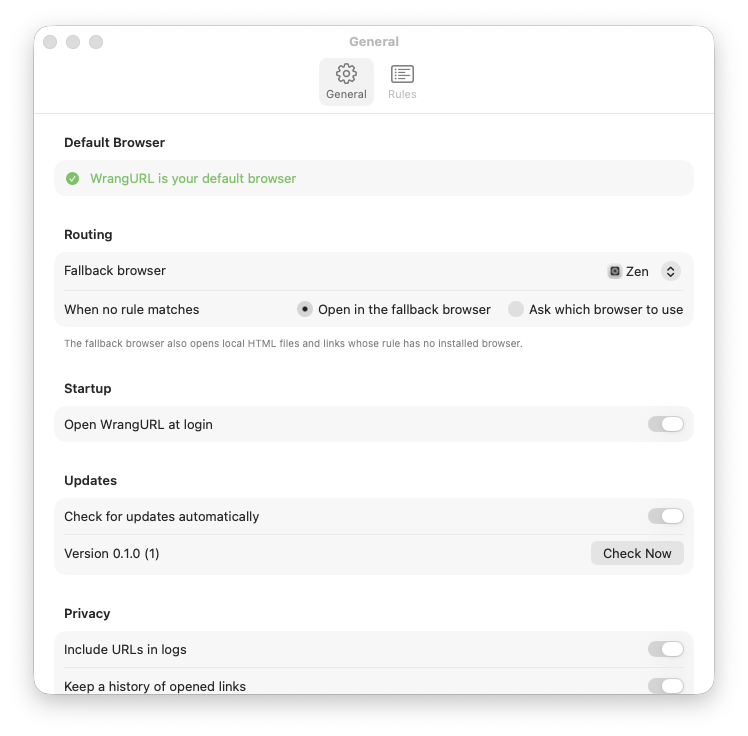
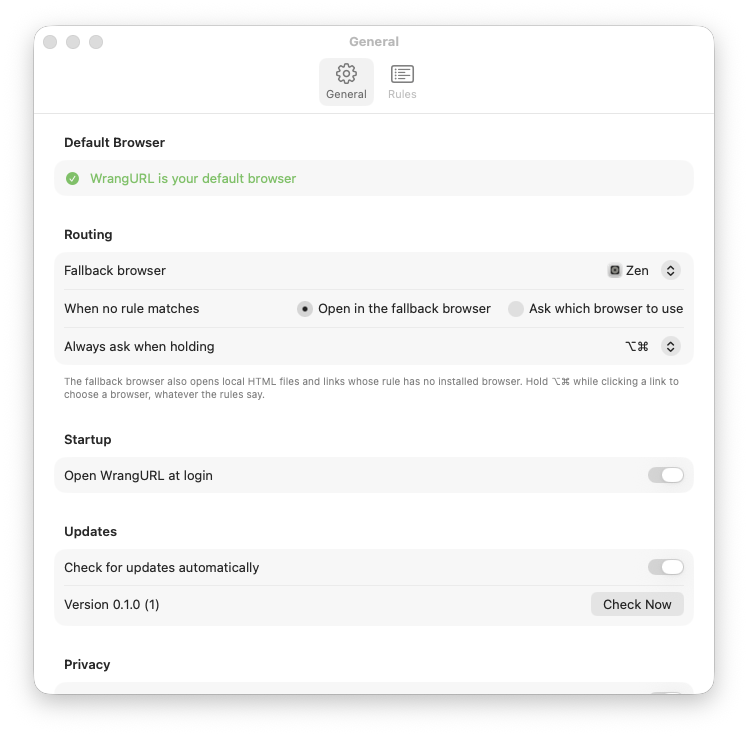
Hold ⌥⌘ while clicking a link to always show the browser picker.
URLRouter reads the held modifier keys when a URL arrives, before it
can be queued. If they match the new pickerModifiers setting exactly,
RoutePlanner shows the picker with every browser, listing the matched
rule's browsers (or the fallback browser) first. The keys default to
⌥⌘ and can be changed or turned off in Settings → General. They are
stored in config.json as key names, and older config files load with
the default.

Documents the shortcut in the README and on the website, and
recaptures the Settings → General screenshots with the new row.

diff --git a/WrangURL/Core/URLRouter.swift b/WrangURL/Core/URLRouter.swift
@@ -14,13 +14,20 @@ final class URLRouter {
         let ruleName: String?
     }
 
+    /// A URL that arrived before launch finished, with what was known when it arrived.
+    private struct PendingURL {
+        let url: URL
+        let source: SourceApp?
+        let modifiers: ModifierKeys
+    }
+
     private(set) var recent: [Entry] = []
 
     @ObservationIgnored private let config: ConfigStore
     @ObservationIgnored private let browsers: BrowserRegistry
     @ObservationIgnored private let history: HistoryStore
     @ObservationIgnored private let picker = BrowserPickerController()
-    @ObservationIgnored private var pending: [(url: URL, source: SourceApp?)] = []
+    @ObservationIgnored private var pending: [PendingURL] = []
     @ObservationIgnored private var isReady = false
     @ObservationIgnored private var matcherCache: (rules: [Rule], matcher: RuleMatcher)?
 
@@ -37,20 +44,22 @@ final class URLRouter {
         isReady = true
         let queued = pending
         pending.removeAll()
-        for (url, source) in queued {
-            route(url, from: source)
+        for item in queued {
+            route(item.url, from: item.source, heldModifiers: item.modifiers)
         }
     }
 
     /// Routes URLs clicked in `source`, the app they came from, if known.
     func handle(_ urls: [URL], from source: SourceApp? = nil) {
+        // Read the keys now: by the time a queued URL is routed, the user may have let go.
+        let modifiers = ModifierKeys(NSEvent.modifierFlags)
         guard isReady else {
-            pending.append(contentsOf: urls.map { ($0, source) })
+            pending.append(contentsOf: urls.map { PendingURL(url: $0, source: source, modifiers: modifiers) })
             Self.logger.info("Queued \(urls.count) URL(s) until launch finishes")
             return
         }
         for url in urls {
-            route(url, from: source)
+            route(url, from: source, heldModifiers: modifiers)
         }
     }
 
@@ -76,9 +85,11 @@ final class URLRouter {
     }
 
     /// What would happen to a URL clicked in `source`, without opening it. Used by the URL tester.
-    func preview(_ url: URL, from source: SourceApp? = nil) -> (rule: Rule?, decision: RouteDecision) {
+    func preview(
+        _ url: URL, from source: SourceApp? = nil, heldModifiers: ModifierKeys = []
+    ) -> (rule: Rule?, decision: RouteDecision) {
         let rule = matcher.match(url, from: source?.id)
-        return (rule, planner.decide(for: url, matchedRule: rule))
+        return (rule, planner.decide(for: url, matchedRule: rule, heldModifiers: heldModifiers))
     }
 
     /// The URL as it should appear in the log, following the "Include URLs in logs" setting.
@@ -86,9 +97,9 @@ final class URLRouter {
         config.config.settings.logsURLs ? url.absoluteString : "<URL hidden>"
     }
 
-    private func route(_ url: URL, from source: SourceApp?) {
-        let (rule, decision) = preview(url, from: source)
-        Self.logger.info("Received \(self.loggable(url), privacy: .public) from \(source?.id ?? "unknown app", privacy: .public); rule: \(rule?.displayName ?? "none", privacy: .public); decision: \(String(describing: decision), privacy: .public)")
+    private func route(_ url: URL, from source: SourceApp?, heldModifiers: ModifierKeys) {
+        let (rule, decision) = preview(url, from: source, heldModifiers: heldModifiers)
+        Self.logger.info("Received \(self.loggable(url), privacy: .public) from \(source?.id ?? "unknown app", privacy: .public); rule: \(rule?.displayName ?? "none", privacy: .public); modifiers: \(heldModifiers.symbols, privacy: .public); decision: \(String(describing: decision), privacy: .public)")
 
         switch decision {
         case .open(let browserID):
@@ -148,5 +159,15 @@ final class URLRouter {
                 ruleName: rule?.displayName, sourceApp: source
             ))
         }
+    }
+}
+
+private extension ModifierKeys {
+    init(_ flags: NSEvent.ModifierFlags) {
+        self = []
+        if flags.contains(.control) { insert(.control) }
+        if flags.contains(.option) { insert(.option) }
+        if flags.contains(.shift) { insert(.shift) }
+        if flags.contains(.command) { insert(.command) }
     }
 }

diff --git a/WrangURLTests/RoutePlannerTests.swift b/WrangURLTests/RoutePlannerTests.swift
@@ -74,4 +74,57 @@ struct RoutePlannerTests {
         let file = URL(filePath: "/tmp/page.html")
         #expect(planner(unmatched: .showPicker).decide(for: file, matchedRule: rule([firefox])) == .open(browserID: chrome))
     }
+
+    // MARK: Picker modifiers (default ⌥⌘)
+
+    private let forced: ModifierKeys = [.option, .command]
+
+    @Test func modifiersShowPickerWithRuleBrowsersFirst() {
+        let decision = planner().decide(for: web, matchedRule: rule([safari, missing]), heldModifiers: forced)
+        #expect(decision == .pick(browserIDs: [safari, chrome, firefox]))
+    }
+
+    @Test func modifiersShowPickerWithFallbackFirstWhenUnmatched() {
+        let decision = planner(fallback: firefox).decide(for: web, matchedRule: nil, heldModifiers: forced)
+        #expect(decision == .pick(browserIDs: [firefox, chrome, safari]))
+    }
+
+    @Test func modifiersShowPickerForFileURLs() {
+        let file = URL(filePath: "/tmp/page.html")
+        let decision = planner().decide(for: file, matchedRule: rule([firefox]), heldModifiers: forced)
+        #expect(decision == .pick(browserIDs: [chrome, firefox, safari]))
+    }
+
+    @Test func modifiersMustMatchExactly() {
+        let single = rule([firefox])
+        #expect(planner().decide(for: web, matchedRule: single, heldModifiers: [.option]) == .open(browserID: firefox))
+        #expect(planner().decide(for: web, matchedRule: single, heldModifiers: [.option, .command, .shift]) == .open(browserID: firefox))
+    }
+
+    @Test func emptyPickerModifiersTurnTheShortcutOff() {
+        var planner = planner()
+        planner.settings.pickerModifiers = []
+        #expect(planner.decide(for: web, matchedRule: rule([firefox]), heldModifiers: []) == .open(browserID: firefox))
+    }
+
+    @Test func modifiersWithOneBrowserOpenIt() {
+        let decision = planner(fallback: nil, installed: [safari]).decide(for: web, matchedRule: nil, heldModifiers: forced)
+        #expect(decision == .open(browserID: safari))
+    }
+
+    @Test func pickerModifiersRoundTripAsKeyNames() throws {
+        var settings = AppSettings()
+        settings.pickerModifiers = [.command, .shift]
+        let data = try JSONEncoder().encode(settings)
+        let json = try #require(JSONSerialization.jsonObject(with: data) as? [String: Any])
+        #expect(json["pickerModifiers"] as? [String] == ["shift", "command"])
+        #expect(try JSONDecoder().decode(AppSettings.self, from: data).pickerModifiers == [.shift, .command])
+    }
+
+    @Test func pickerModifiersDefaultToOptionCommandAndIgnoreUnknownKeys() throws {
+        let missing = try JSONDecoder().decode(AppSettings.self, from: Data("{}".utf8))
+        #expect(missing.pickerModifiers == [.option, .command])
+        let unknown = try JSONDecoder().decode(AppSettings.self, from: Data(#"{"pickerModifiers": ["option", "hyper"]}"#.utf8))
+        #expect(unknown.pickerModifiers == [.option])
+    }
 }

diff --git a/WrangURL/UI/Settings/GeneralSettingsView.swift b/WrangURL/UI/Settings/GeneralSettingsView.swift
@@ -53,10 +53,16 @@ struct GeneralSettingsView: View {
                     Text("Ask which browser to use").tag(UnmatchedBehavior.showPicker)
                 }
                 .pickerStyle(.radioGroup)
+
+                Picker("Always ask when holding", selection: pickerModifiers) {
+                    ForEach(pickerModifierChoices, id: \.rawValue) { keys in
+                        Text(keys.isEmpty ? "Off" : keys.symbols).tag(keys)
+                    }
+                }
             } header: {
                 Text("Routing")
             } footer: {
-                Text("The fallback browser also opens local HTML files and links whose rule has no installed browser.")
+                Text(routingFooter)
                     .font(.caption)
                     .foregroundStyle(.secondary)
             }
@@ -131,6 +137,32 @@ struct GeneralSettingsView: View {
         var planner = router.planner
         planner.settings.fallbackBrowserID = nil
         return planner.fallbackBrowserID.map(browsers.name(forID:)) ?? "none"
+    }
+
+    private var routingFooter: String {
+        var text = "The fallback browser also opens local HTML files and links whose rule has no installed browser."
+        let keys = config.config.settings.pickerModifiers
+        if !keys.isEmpty {
+            text += " Hold \(keys.symbols) while clicking a link to choose a browser, whatever the rules say."
+        }
+        return text
+    }
+
+    /// The offered combinations, plus the current one if it was set by editing the config file.
+    private var pickerModifierChoices: [ModifierKeys] {
+        var choices: [ModifierKeys] = [AppSettings.defaultPickerModifiers, [.control, .option], [.shift, .command], [.option], [.shift], []]
+        let current = config.config.settings.pickerModifiers
+        if !choices.contains(current) {
+            choices.insert(current, at: choices.count - 1)
+        }
+        return choices
+    }
+
+    private var pickerModifiers: Binding<ModifierKeys> {
+        Binding(
+            get: { config.config.settings.pickerModifiers },
+            set: { keys in config.update { $0.settings.pickerModifiers = keys } }
+        )
     }
 
     private var fallbackBrowserID: Binding<String?> {

diff --git a/WrangURL/Core/RoutePlanner.swift b/WrangURL/Core/RoutePlanner.swift
@@ -24,15 +24,23 @@ struct RoutePlanner {
             ?? installedBrowserIDs.first(where: isAvailable)
     }
 
-    func decide(for url: URL, matchedRule: Rule?) -> RouteDecision {
+    /// - Parameter heldModifiers: The modifier keys held when the URL arrived. If they are
+    ///   exactly `settings.pickerModifiers`, the picker offers every browser.
+    func decide(for url: URL, matchedRule: Rule?, heldModifiers: ModifierKeys = []) -> RouteDecision {
         // Local HTML files arrive via the document type; rules only apply to web URLs.
+        let ruleBrowserIDs = url.isFileURL ? nil : matchedRule.map { availableBrowserIDs($0.browserIDs) }
+
+        if !settings.pickerModifiers.isEmpty && heldModifiers == settings.pickerModifiers {
+            // The rule's browsers first, or else the fallback, then every other browser.
+            let preferred = ruleBrowserIDs.flatMap { $0.isEmpty ? nil : $0 } ?? [fallbackBrowserID].compactMap { $0 }
+            return openOrPick(availableBrowserIDs(preferred + installedBrowserIDs))
+        }
+
         if url.isFileURL {
             return openFallback()
         }
 
-        if let rule = matchedRule {
-            var seen = Set<String>()
-            let browserIDs = rule.browserIDs.filter { isAvailable($0) && seen.insert($0).inserted }
+        if let browserIDs = ruleBrowserIDs {
             return browserIDs.isEmpty ? openFallback() : openOrPick(browserIDs)
         }
 
@@ -47,6 +55,12 @@ struct RoutePlanner {
             }
             return openOrPick(browserIDs)
         }
+    }
+
+    /// The available browsers among `browserIDs`, without duplicates, in their original order.
+    private func availableBrowserIDs(_ browserIDs: [String]) -> [String] {
+        var seen = Set<String>()
+        return browserIDs.filter { isAvailable($0) && seen.insert($0).inserted }
     }
 
     private func openOrPick(_ browserIDs: [String]) -> RouteDecision {

diff --git a/docs/index.html b/docs/index.html
@@ -312,6 +312,10 @@
           When a rule lists more than one browser, the picker appears next to the mouse pointer.
           The app you clicked the link in stays in front, so you can keep working after you choose.
         </p>
+        <p>
+          To choose for any link, hold <kbd>⌥</kbd><kbd>⌘</kbd> while you click it. The picker then lists every browser,
+          with the rule’s browsers or the fallback browser first. Change the keys or turn this off in Settings → General.
+        </p>
         <table class="keys">
           <tbody>
             <tr><td><kbd>1</kbd>–<kbd>9</kbd></td><td>Open in that browser</td></tr>
@@ -362,13 +366,13 @@
       <picture>
         <source srcset="images/settings-general-dark.png" media="(prefers-color-scheme: dark)">
         <img src="images/settings-general-light.png" width="748" height="736" loading="lazy"
-             alt="The General tab: default browser status, fallback browser, unmatched links, startup, updates, and privacy options for logging URLs and keeping a history.">
+             alt="The General tab: default browser status, fallback browser, unmatched links, the keys that always show the picker (Option-Command), startup and updates.">
       </picture>
       <figcaption>Settings → General.</figcaption>
     </figure>
 
     <p>
-      <b>Settings → General</b> covers the fallback browser and what happens when no rule matches, plus launch at login, automatic updates, whether URLs are logged, whether to keep a history, and your configuration.
+      <b>Settings → General</b> covers the fallback browser, what happens when no rule matches and the keys that always show the picker, plus launch at login, automatic updates, whether URLs are logged, whether to keep a history, and your configuration.
       Use <b>Import…</b> and <b>Export…</b> to move your rules and settings between Macs as a JSON file.
     </p>
     <p>

diff --git a/WrangURL/Core/ModifierKeys.swift b/WrangURL/Core/ModifierKeys.swift
@@ -1,0 +1,49 @@
+import Foundation
+
+/// A combination of modifier keys. AppKit-free so it can live in `AppSettings`;
+/// `URLRouter` converts `NSEvent.ModifierFlags` into it.
+struct ModifierKeys: OptionSet, Hashable, Sendable {
+    let rawValue: Int
+
+    static let control = ModifierKeys(rawValue: 1 << 0)
+    static let option = ModifierKeys(rawValue: 1 << 1)
+    static let shift = ModifierKeys(rawValue: 1 << 2)
+    static let command = ModifierKeys(rawValue: 1 << 3)
+
+    private struct Key {
+        let key: ModifierKeys
+        let symbol: String
+        let name: String
+    }
+
+    /// Keys in the order macOS displays them, with their symbol and config name.
+    private static let keys = [
+        Key(key: .control, symbol: "⌃", name: "control"),
+        Key(key: .option, symbol: "⌥", name: "option"),
+        Key(key: .shift, symbol: "⇧", name: "shift"),
+        Key(key: .command, symbol: "⌘", name: "command"),
+    ]
+
+    /// The keys as symbols, for example "⌥⌘". Empty when no key is set.
+    var symbols: String {
+        Self.keys.filter { contains($0.key) }.map(\.symbol).joined()
+    }
+}
+
+/// Encoded as a list of key names, such as `["option", "command"]`, so `config.json`
+/// stays readable. Unknown names are ignored.
+extension ModifierKeys: Codable {
+    init(from decoder: any Decoder) throws {
+        let names = try decoder.singleValueContainer().decode([String].self)
+        self = Self.keys.reduce(into: []) { result, entry in
+            if names.contains(entry.name) {
+                result.insert(entry.key)
+            }
+        }
+    }
+
+    func encode(to encoder: any Encoder) throws {
+        var container = encoder.singleValueContainer()
+        try container.encode(Self.keys.filter { contains($0.key) }.map(\.name))
+    }
+}

diff --git a/WrangURL/Core/Config.swift b/WrangURL/Core/Config.swift
@@ -16,6 +16,11 @@ struct AppSettings: Codable, Equatable, Sendable {
     var logsURLs = true
     /// Whether opened links are recorded in the History window.
     var keepsHistory = true
+    /// Holding exactly these keys when a link arrives shows the picker, whatever the rules say.
+    /// Empty turns this off.
+    var pickerModifiers: ModifierKeys = AppSettings.defaultPickerModifiers
+
+    static let defaultPickerModifiers: ModifierKeys = [.option, .command]
 }
 
 extension AppSettings {
@@ -26,6 +31,8 @@ extension AppSettings {
         hasCompletedOnboarding = try container.decodeIfPresent(Bool.self, forKey: .hasCompletedOnboarding) ?? false
         logsURLs = try container.decodeIfPresent(Bool.self, forKey: .logsURLs) ?? true
         keepsHistory = try container.decodeIfPresent(Bool.self, forKey: .keepsHistory) ?? true
+        pickerModifiers = try container.decodeIfPresent(ModifierKeys.self, forKey: .pickerModifiers)
+            ?? AppSettings.defaultPickerModifiers
     }
 }
 

diff --git a/README.md b/README.md
@@ -22,6 +22,7 @@ WrangURL is a macOS menu bar app that opens each link in the right browser. You 
 - Limit a rule to links clicked in particular apps, such as sending links from Slack to Chrome.
 - Send a match straight to one browser, or choose from a picker when a rule lists several.
 - Choose what happens to links no rule matches: open them in a fallback browser, or show the picker.
+- Hold ⌥⌘ while clicking any link to choose a browser, whatever the rules say.
 - Keeps a searchable history of the links it has opened, grouped by day.
 - Runs in the menu bar and can open at login.
 
@@ -66,6 +67,8 @@ To check your rules, use **Test a URL** at the bottom of the Rules tab. It shows
 
 The picker appears next to the mouse pointer. The app you clicked the link in stays in front.
 
+To choose a browser for a link that a rule would open directly, hold **⌥⌘** (Option-Command) while you click it. The picker then lists every browser, with the rule's browsers (or the fallback browser) first. Change the keys, or turn this off, with **Always ask when holding** in Settings → General. Some apps give modifier-clicks their own meaning, so this only works where the app still hands the link to your default browser.
+
 | Key | Action |
 |---|---|
 | `1`–`9` | Open in that browser |
@@ -84,7 +87,7 @@ History is kept only on this Mac, in `history.json` next to the configuration fi
 
 ### Settings and configuration
 
-- **Settings → General** covers the fallback browser, what to do with unmatched links, launch at login, updates, whether URLs appear in the system log, whether to keep a history, and the default browser status.
+- **Settings → General** covers the fallback browser, what to do with unmatched links, the keys that always show the picker, launch at login, updates, whether URLs appear in the system log, whether to keep a history, and the default browser status.
 - WrangURL checks GitHub for new releases with [Sparkle](https://sparkle-project.org). Choose **Check for Updates…** in the menu to check now.
 - If WrangURL stops being the default browser, the menu bar icon changes to ⚠.
 - **Import… and Export…** save and load your rules and settings as JSON.

diff --git a/CLAUDE.md b/CLAUDE.md
@@ -28,7 +28,7 @@ App logs use subsystem `com.thepublicgood.wrangurl`. In zsh, `log` is a shell bu
 
 **URL flow.** macOS delivers URLs to `AppDelegate.application(_:open:)` → `URLRouter.handle`. The router queues URLs until `markReady()` in `applicationDidFinishLaunching`, because a cold launch can deliver them early. `URLRouter.preview(_:)` does the decision part:
 1. `RuleMatcher` finds the first enabled rule matching the URL and its source app (`SourceApp`, read from the Apple Event's sender in `application(_:open:)`). It is compiled once per rules array and cached in the router.
-2. `RoutePlanner` decides `.open(browserID)`, `.pick(browserIDs)` or `.noBrowserAvailable`. It applies the fallback browser (configured browser, then Safari, then the first installed one), the unmatched-URL behaviour, removal of uninstalled browsers, and "file URLs go to the fallback".
+2. `RoutePlanner` decides `.open(browserID)`, `.pick(browserIDs)` or `.noBrowserAvailable`. It applies the fallback browser (configured browser, then Safari, then the first installed one), the unmatched-URL behaviour, removal of uninstalled browsers, and "file URLs go to the fallback". Holding exactly `AppSettings.pickerModifiers` (default ⌥⌘) forces `.pick` with every browser; `URLRouter.handle` reads `NSEvent.modifierFlags` on arrival, before any queueing.
 
 The router then either opens the URL via `NSWorkspace` or shows `BrowserPickerController`. The URL testers in Settings call `preview(_:)`, so they can't diverge from real routing. `RoutePlanner`, `RuleMatcher`/`SimplePattern`, `PickerAction` and the `Config` import helpers are deliberately AppKit-free and pure; keep new routing logic there so it stays unit-testable.
 
